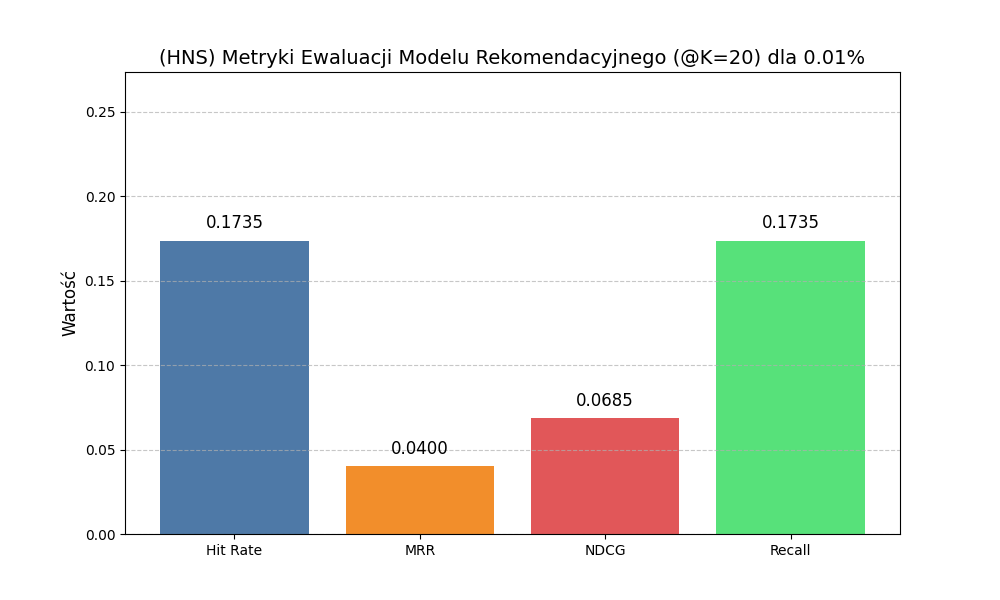
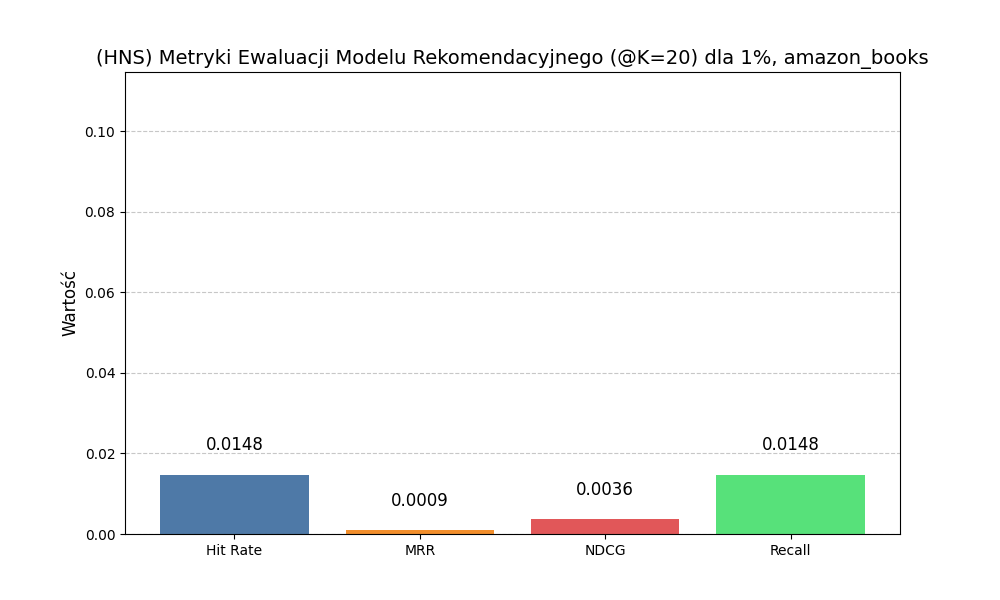
zapis metryk koncowych oraz bpr loss do plikow csv

diff --git a/NGCF/main.py b/NGCF/main.py
@@ -18,7 +18,7 @@ DROPOUTS = [0.3, 0.3]
 LR = 0.001
 EPOCHS = 80
 DECAY = 1e-4
-PROC_DANYCH = 0.6 #zmienna do treningu na danych, żeby nikt nie musiał czekać milion lat na model w fazach testowych
+PROC_DANYCH = 0.01 #zmienna do treningu na danych, żeby nikt nie musiał czekać milion lat na model w fazach testowych
 
 def evaluate_methods(model, adj_matrix, test_loader, train_user_dict, k=20):
     model.eval()
@@ -139,7 +139,7 @@ def get_hard_negatives(u_batch, i_g_embeddings, users, train_user_dict, min_rank
 
     return i_g_embeddings[semi_hard_neg_indices]
 
-def train_ngcf(adj_matrix, train_pairs, test_pairs, n_users, n_items, meta, train_user_dict, use_hns=True, start_epoch=0):
+def train_ngcf(adj_matrix, train_pairs, test_pairs, n_users, n_items, meta, train_user_dict, dataset_name, use_hns=True, start_epoch=0):
     print(f"Używam urządzenia: {DEVICE}")
 
     epoch_loses=[]
@@ -174,6 +174,15 @@ def train_ngcf(adj_matrix, train_pairs, test_pairs, n_users, n_items, meta, trai
     # Zmienione na "a", żeby nie nadpisywać historii przy wznawianiu!
     with open(log_file_path, "a") as f:
         f.write(f"\n--- NOWA SESJA TRENINGOWA (Czas startu: {start_time_str}) ---\n")
+
+    if use_hns:
+        bpr_loss_csv = f"training_data/{dataset_name}_{int(PROC_DANYCH*100)}_bpr_loss_HNS.csv"
+    else:   
+        bpr_loss_csv = f"training_data/{dataset_name}_{int(PROC_DANYCH*100)}_bpr_loss_NO_HNS.csv"
+
+    if start_epoch == 0:
+        with open(bpr_loss_csv, "w", encoding="utf-8") as f:
+            f.write("Epoch,BPR_Loss\n")
 
     # --- DODANA LOGIKA WZNAWIANIA ---
     if start_epoch > 0:
@@ -262,6 +271,8 @@ def train_ngcf(adj_matrix, train_pairs, test_pairs, n_users, n_items, meta, trai
 
         # Zapis i logowanie
         avg_loss = total_loss / len(train_loader)
+        with open(bpr_loss_csv, "a", encoding="utf-8") as f:
+            f.write(f"{epoch + 1},{avg_loss:.6f}\n")
         scheduler.step(avg_loss)
         epoch_loses.append(avg_loss)
 
@@ -318,7 +329,7 @@ def train_ngcf(adj_matrix, train_pairs, test_pairs, n_users, n_items, meta, trai
     return epoch_loses
 
 
-def evaluate_model(model, adj_matrix, test_pairs, n_users, n_items, train_user_dict, use_hns):
+def evaluate_model(model, adj_matrix, test_pairs, n_users, n_items, train_user_dict, dataset_name, use_hns):
     
     test_loader = DataLoader(test_pairs, batch_size=1024, shuffle=False)
 
@@ -327,6 +338,17 @@ def evaluate_model(model, adj_matrix, test_pairs, n_users, n_items, train_user_d
 
     with open("historia_metryk.csv", "a", encoding="utf-8") as f:
         f.write(f"{int(PROC_DANYCH*100)}%;Warstwy: {LAYERS};Dropouts: {DROPOUTS};Batch size: {BATCH_SIZE};Learning Rate: {LR};Decay: {DECAY}; Hit Rate: {hr:.4f}; NDCG: {ndcg:.4f}; MRR: {mrr:.4f}; Recall: {recall:.4f}\n")
+
+    if use_hns:
+        metrics_csv = f"training_data/{dataset_name}_metrics_HNS.csv"
+    else:
+        metrics_csv = f"training_data/{dataset_name}_metrics_NO_HNS.csv"
+    file_exists = os.path.isfile(metrics_csv)
+
+    with open(metrics_csv, "a", encoding="utf-8") as f:
+        if not file_exists:
+            f.write("Proc_Danych,Hit_Rate,MRR,NDCG,Recall\n") 
+        f.write(f"{int(PROC_DANYCH*100)}%,{hr:.4f},{mrr:.4f},{ndcg:.4f},{recall:.4f}\n")
 
     print(f"\nWyniki @K=20:")
     print(f"Hit Rate: {hr:.4f}")
@@ -354,7 +376,7 @@ def evaluate_model(model, adj_matrix, test_pairs, n_users, n_items, train_user_d
     else:
         prefix="NO_HNS"
 
-    plt.title(f'({prefix}) Metryki Ewaluacji Modelu Rekomendacyjnego (@K=20) dla {int(PROC_DANYCH*100)}%', fontsize=14)
+    plt.title(f'({prefix}) Metryki Ewaluacji Modelu Rekomendacyjnego (@K=20) dla {int(PROC_DANYCH*100)}%, {dataset_name}', fontsize=14)
     plt.ylabel('Wartość', fontsize=12)
     plt.ylim(0, max(values) + 0.1) 
     plt.grid(axis='y', linestyle='--', alpha=0.7)
@@ -363,7 +385,7 @@ def evaluate_model(model, adj_matrix, test_pairs, n_users, n_items, train_user_d
     plt.show()
 
 
-def plot_training_loss(epoch_losses, use_hns):
+def plot_training_loss(epoch_losses, use_hns, dataset_name):
     prefix = ''
     if use_hns:
         prefix="HNS"
@@ -373,7 +395,7 @@ def plot_training_loss(epoch_losses, use_hns):
     plt.figure(figsize=(10, 5))
     plt.plot(range(1, len(epoch_losses) + 1), epoch_losses, marker='o', color='#2c3e50', linestyle='-', linewidth=2)
     
-    plt.title(f'({prefix}) Krzywa uczenia (BPR Loss) dla {PROC_DANYCH*100} %', fontsize=14)
+    plt.title(f'({prefix}) Krzywa uczenia (BPR Loss) dla {PROC_DANYCH*100} %, {dataset_name}', fontsize=14)
     plt.xlabel('Epoka', fontsize=12)
     plt.ylabel('Średni Loss', fontsize=12)
     plt.grid(True, which='both', linestyle='--', alpha=0.5)
@@ -468,8 +490,8 @@ def main():
 
     if not os.path.exists(path_check):
         # Przekazujemy start_epoch do funkcji trenującej
-        loses = train_ngcf(adj_matrix, train_pairs, test_pairs, n_users, n_items, meta, train_user_dict, use_hns, start_epoch)
-        plot_training_loss(loses, use_hns)
+        loses = train_ngcf(adj_matrix, train_pairs, test_pairs, n_users, n_items, meta, train_user_dict, DATA_SET, use_hns, start_epoch)
+        plot_training_loss(loses, use_hns, DATA_SET)
 
     print(f"Używam urządzenia: {DEVICE}")
 
@@ -482,7 +504,7 @@ def main():
 
     model.to(DEVICE)
 
-    evaluate_model(model, adj_matrix, test_pairs, n_users, n_items, train_user_dict, use_hns)
+    evaluate_model(model, adj_matrix, test_pairs, n_users, n_items, train_user_dict, DATA_SET, use_hns)
 
 if __name__ == "__main__":
     main()
